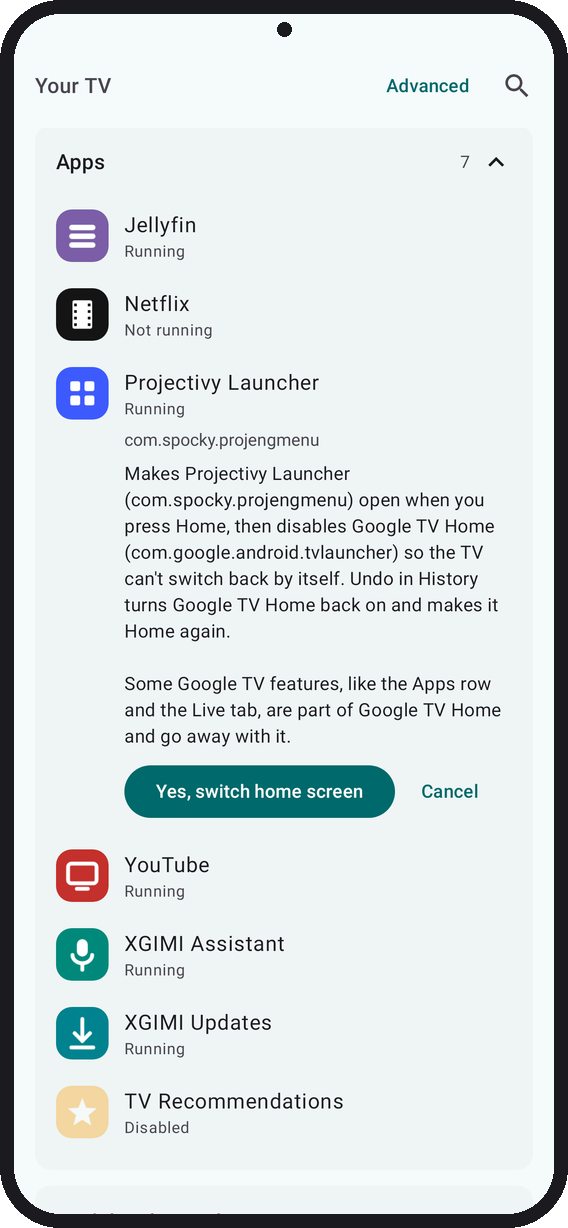
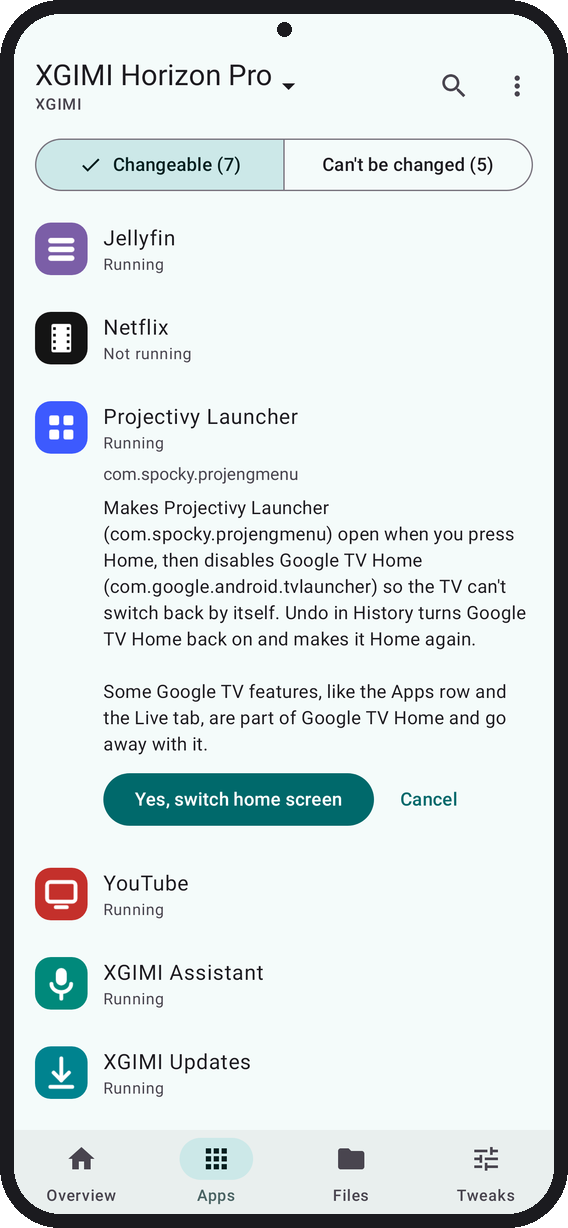
README screenshots: re-render with the top bar and tabs
The README tests render at phone size and scroll inside the app, so
frame.py no longer needs scroll offsets or its crop-and-paste code.

diff --git a/app/src/test/java/app/tellyscope/ScreenshotTest.kt b/app/src/test/java/app/tellyscope/ScreenshotTest.kt
@@ -21,6 +21,10 @@ import androidx.compose.ui.test.onAllNodesWithText
 import androidx.compose.ui.test.assertCountEquals
 import androidx.compose.ui.test.onRoot
 import androidx.compose.ui.test.performClick
+import androidx.compose.ui.test.performScrollToNode
+import androidx.compose.ui.test.performScrollToIndex
+import androidx.compose.ui.test.hasScrollAction
+import androidx.compose.ui.test.hasText
 import app.tellyscope.adb.ApkInfo
 import app.tellyscope.adb.ConnectionRequest
 import app.tellyscope.adb.InstallRefusal
@@ -672,8 +676,7 @@ class ScreenshotTest {
         compose.onNodeWithText("Disable 4 apps?").assertExists()
     }
 
-    // Tall, like device_history: frame.py shows it scrolled down to History under the top bar.
-    @Config(qualifiers = "w411dp-h2600dp-xxhdpi")
+    // Phone-sized, like every README shot: Recent changes (item 1 on Tweaks) scrolled to the top.
     @Test fun readme_history() {
         val history = listOf(
             HistoryEntry(4, xgimi.ip, now - 40_000, Action.Disable, "com.google.android.tvrecommendations", "TV Recommendations", Action.Enable, null),
@@ -681,7 +684,7 @@ class ScreenshotTest {
             HistoryEntry(2, xgimi.ip, now - 5 * 60_000, Action.Stop, "com.netflix.ninja", "Netflix", Action.Open, null),
             HistoryEntry(1, xgimi.ip, now - 2 * 3_600_000, Action.Stop, "com.google.android.youtube.tv", "YouTube", Action.Open, now - 3_500_000),
         )
-        shot("22_readme_history") { DeviceTabsScreen(deviceState { copy(history = history) }, DeviceActions(), startTab = TvTab.Tweaks) }
+        shot("22_readme_history", before = { compose.onNode(hasScrollAction()).performScrollToIndex(1); Unit }) { DeviceTabsScreen(deviceState { copy(history = history) }, DeviceActions(), startTab = TvTab.Tweaks) }
         compose.onNodeWithText("Restore everything (2)").assertExists()
     }
     @Test fun readme_install() {
@@ -694,8 +697,6 @@ class ScreenshotTest {
         sideload("23_readme_install", SideloadUi(SideloadUi.Step.Ready, netflix, InstalledVersion(11_200, "11.2.0")))
     }
 
-    // Tall, like readme_history: frame.py scrolls it down to Files.
-    @Config(qualifiers = "w411dp-h2600dp-xxhdpi")
     @Test fun readme_files() {
         val files = listOf(
             TvFile("subtitles.srt", 61_000, now - 40 * 60_000L),
@@ -708,16 +709,13 @@ class ScreenshotTest {
         compose.onNodeWithText("wallpaper-mountains.jpg").assertExists()
     }
 
-    // Tall, like readme_history: frame.py scrolls it down to TV tweaks.
-    @Config(qualifiers = "w411dp-h2600dp-xxhdpi")
     @Test fun readme_tweaks() {
         val tweaks = TvTweaks(dnsHost = TvSettings.ADGUARD, animationScale = null)
         shot("29_readme_tweaks") { DeviceTabsScreen(deviceState { copy(tweaks = tweaks) }, DeviceActions(), startTab = TvTab.Tweaks) }
         compose.onNodeWithText(Copy.dnsState(TvSettings.ADGUARD)).assertExists()
     }
 
-    // Tall, like readme_history: frame.py scrolls it down to the confirm.
-    @Config(qualifiers = "w411dp-h2600dp-xxhdpi")
+    // The list scrolls to the confirm, as a user would.
     @Test fun readme_home() {
         // Google TV's own launcher is Home; Projectivy, installed by the user, offers to replace it.
         val stock = AppInfo("com.google.android.tvlauncher", "Google TV Home", 0xFF1A73E8, true, true, "this is your home screen", "1.0.4")
@@ -725,7 +723,7 @@ class ScreenshotTest {
             val projectivy = { a: AppInfo -> a.copy(protectedReason = null, system = false, removable = true, homeInstead = stock.packageName) }
             copy(apps = listOf(stock) + apps.map { if (it.packageName == "com.spocky.projengmenu") projectivy(it) else it }, pending = "com.spocky.projengmenu" to Action.Home)
         }
-        shot("30_readme_home") { DeviceTabsScreen(state, DeviceActions(), startTab = TvTab.Apps) }
+        shot("30_readme_home", before = { compose.onNode(hasScrollAction()).performScrollToNode(hasText("Yes, switch home screen")); Unit }) { DeviceTabsScreen(state, DeviceActions(), startTab = TvTab.Apps) }
         compose.onNodeWithText("Yes, switch home screen").assertExists()
     }
 

diff --git a/docs/screenshots/frame.py b/docs/screenshots/frame.py
@@ -16,25 +16,24 @@ from PIL import Image, ImageDraw
 SRC = Path("app/build/outputs/roborazzi")
 OUT = Path(__file__).parent
 
-# Output name, the screenshot it comes from, and how far down the page it is scrolled, in dp.
-# Tall renders are cut to one phone screen; a scrolled one keeps its top bar, as on a phone.
+# Output name and the phone-sized screenshot it comes from. The tests scroll the page themselves,
+# so the top bar and the tabs along the bottom stay in shot.
 SHOTS = {
-    "tv-page": ("04_device", 0),
-    "debloat": ("20_readme_debloat", 0),
-    "debloat-confirm": ("21_readme_confirm", 0),
-    "install": ("23_readme_install", 0),
-    "send": ("25_readme_send", 0),
-    "files": ("24_readme_files", 400),
-    "history": ("22_readme_history", 300),
-    "tweaks": ("29_readme_tweaks", 645),
-    "request": ("17_device_request", 0),
-    "home": ("30_readme_home", 600),
-    "uninstall": ("27_apps_uninstall_confirm", 0),
+    "tv-page": "04_device",
+    "debloat": "20_readme_debloat",
+    "debloat-confirm": "21_readme_confirm",
+    "install": "23_readme_install",
+    "send": "25_readme_send",
+    "files": "24_readme_files",
+    "history": "22_readme_history",
+    "tweaks": "29_readme_tweaks",
+    "request": "17_device_request",
+    "home": "30_readme_home",
+    "uninstall": "27_apps_uninstall_confirm",
 }
 
 DP = 3  # the tests render at xxhdpi
 SCREEN_DP = 891  # the tests' 411 x 891 dp phone
-TOP_BAR_DP = 64
 
 WIDTH = 540  # screen width in the output; GitHub shows it at about half that
 STATUS = 30  # status bar height, where the camera sits
@@ -42,15 +41,9 @@ BEZEL = 14
 RADIUS = 46
 
 
-def frame(src: Path, scroll_dp: int) -> Image.Image:
+def frame(src: Path) -> Image.Image:
     shot = Image.open(src).convert("RGB")
-    phone_h, bar, scroll = SCREEN_DP * DP, TOP_BAR_DP * DP, scroll_dp * DP
-    if scroll:
-        page = shot.crop((0, bar + scroll, shot.width, scroll + phone_h))
-        shot = shot.crop((0, 0, shot.width, phone_h))
-        shot.paste(page, (0, bar))
-    else:
-        shot = shot.crop((0, 0, shot.width, min(shot.height, phone_h)))
+    shot = shot.crop((0, 0, shot.width, min(shot.height, SCREEN_DP * DP)))
     shot = shot.resize((WIDTH, shot.height * WIDTH // shot.width), Image.LANCZOS)
 
     # A status bar in the app's own top colour, as on a phone.
@@ -70,6 +63,6 @@ def frame(src: Path, scroll_dp: int) -> Image.Image:
 
 
 if __name__ == "__main__":
-    for name, (src, scroll) in SHOTS.items():
-        frame(SRC / f"{src}.png", scroll).save(OUT / f"{name}.png", optimize=True)
+    for name, src in SHOTS.items():
+        frame(SRC / f"{src}.png").save(OUT / f"{name}.png", optimize=True)
         print(f"{name}.png")
